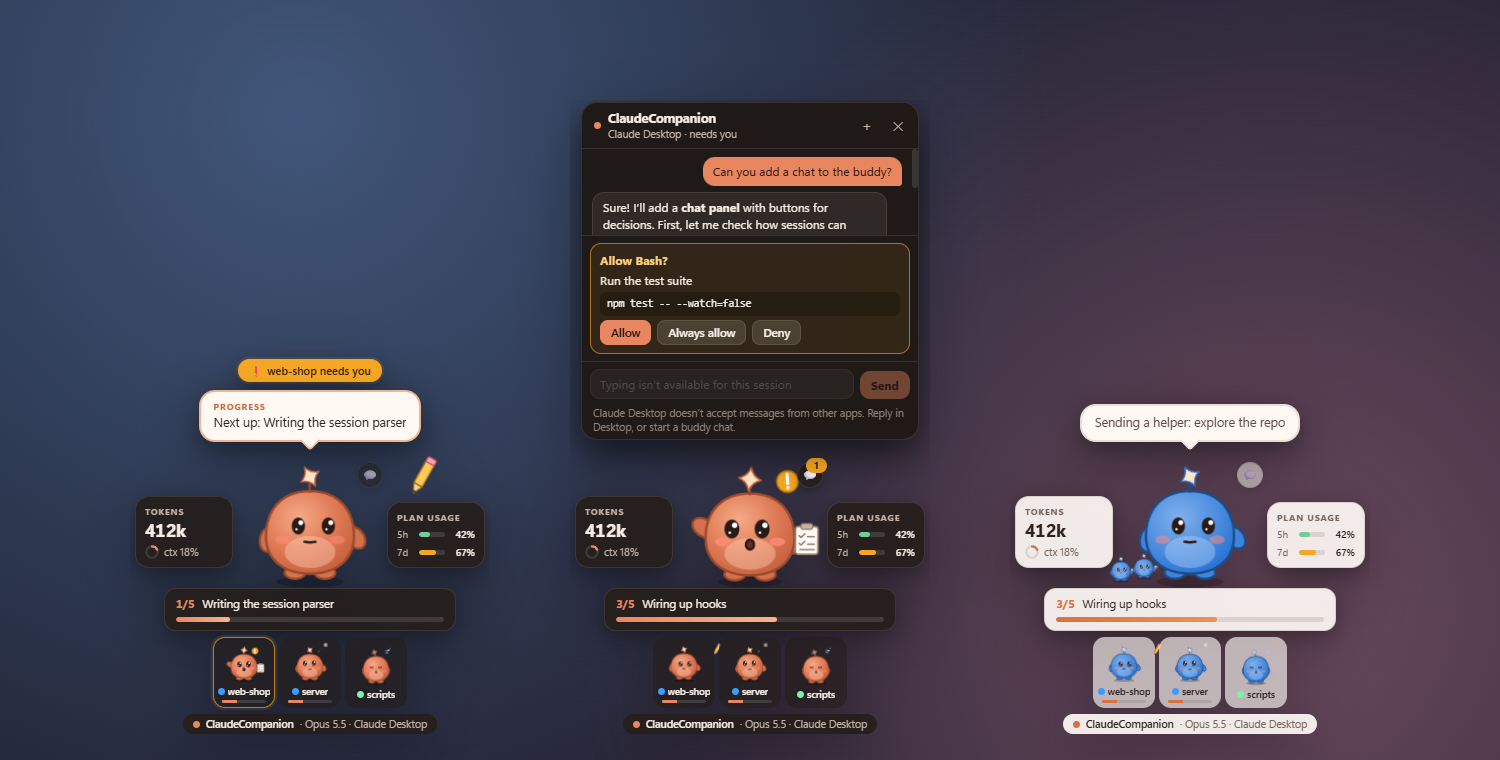
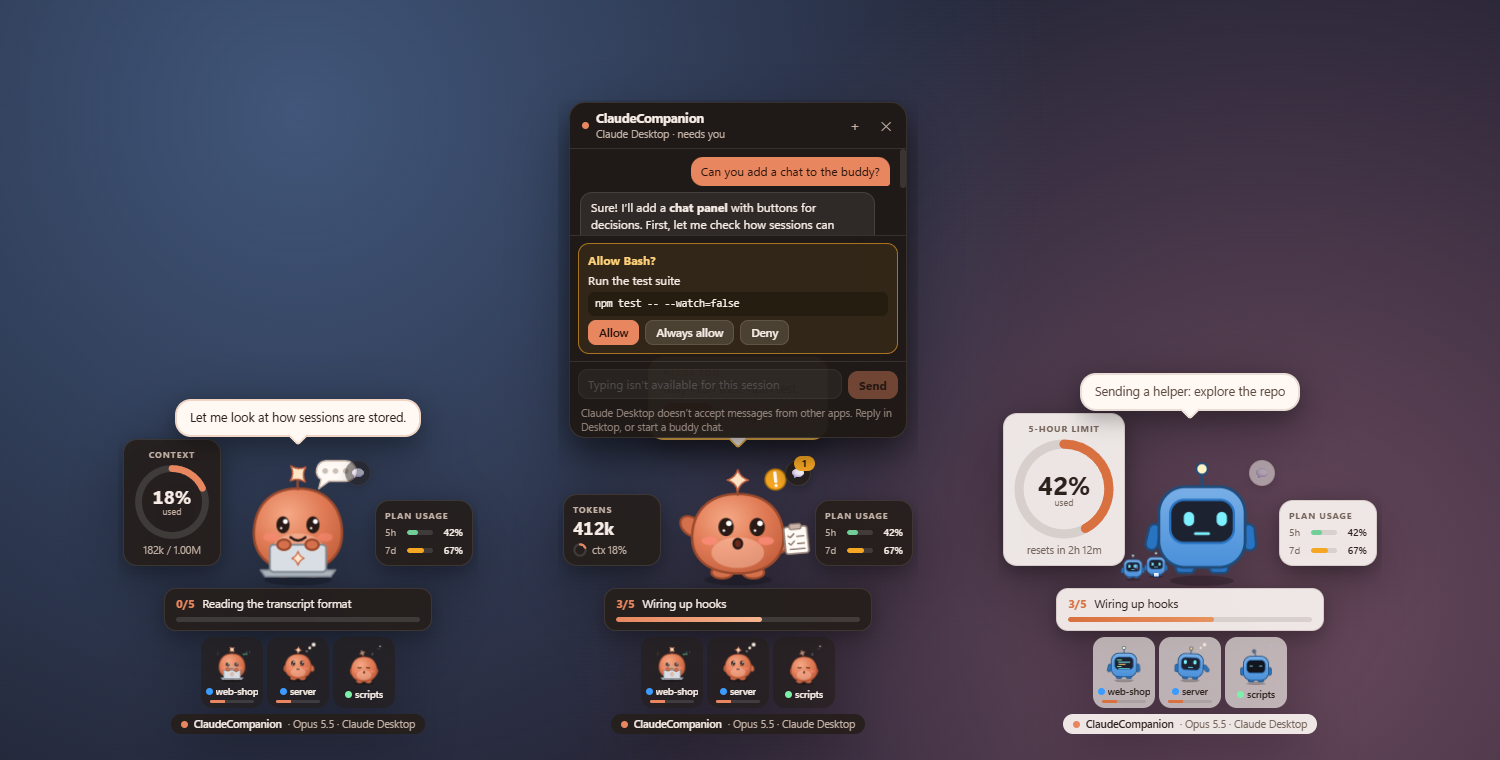
Update docs and screenshots for characters, activities and the token ring
- README: new hero image showing activities, the token ring and Blip;
  activities in the right-click menu; a pointer to Characters.
- Settings screenshot retaken (it still showed 0.1.0), and a new one of
  Settings → Look → Character in the character guide.
- CONTRIBUTING: the typing, coding and search demo scenes,
  --snapshot-bottom, npm run icon, how to rebuild the hero image, and
  activity.js, scripts/ and docs/ in the project layout.
- CHANGELOG: the size change now saving the position, presets leaving
  the arrangement alone, and --user-data.
- Character guide: which quirks come while idle and while thinking,
  and the smaller mini buddies beside the buddy.
- render-assets.js sizes hero snapshots by height, so a wider window
  (large ring beside the buddy) keeps the same scale.

diff --git a/scripts/render-assets.js b/scripts/render-assets.js
@@ -46,7 +46,7 @@ function heroHtml(images) {
   html,body{margin:0;width:1500px;height:760px;overflow:hidden}
   body{display:flex;align-items:flex-end;justify-content:center;gap:80px;padding-bottom:20px;box-sizing:border-box;
     background:radial-gradient(circle at 20% 15%,#41567a 0,transparent 55%),radial-gradient(circle at 85% 80%,#6b4a5e 0,transparent 50%),linear-gradient(135deg,#1f2a3c,#2b2233)}
-  img{width:360px;filter:drop-shadow(0 18px 30px rgba(0,0,0,.35))}
+  img{height:640px;filter:drop-shadow(0 18px 30px rgba(0,0,0,.35))}
   </style></head><body>${cells}</body></html>`;
 }
 

diff --git a/CONTRIBUTING.md b/CONTRIBUTING.md
@@ -21,15 +21,17 @@ You need Node.js 22 or later. Claude Code is optional, but you'll want it to see
 | `npm test` | Unit and integration tests (`node --test`). Run them before opening a pull request |
 | `npm run dev` | Logs hook events and a state summary every 5 seconds |
 | `npx electron . --demo` | Cycles through every mood with made-up data |
-| `npx electron . --demo=<scene>` | One scene: `idle`, `thinking`, `read`, `edit`, `run`, `web`, `agent`, `waiting`, `question`, `done`, `error`, `compacting`, `sleeping`, `chat`, `chatq` |
-| `--preset=<name>` / `--display=<json>` | Try a layout or look without saving it, for example `--display={"theme":"light"}` |
+| `npx electron . --demo=<scene>` | One scene: `idle`, `thinking`, `typing`, `coding`, `read`, `search`, `edit`, `run`, `web`, `agent`, `waiting`, `question`, `done`, `error`, `compacting`, `sleeping`, `chat`, `chatq` |
+| `--preset=<name>` / `--display=<json>` | Try a layout or look without saving it, for example `--display={"theme":"light"}` or `--display={"character":"blip","tokenStyle":"ring"}` (any key from `DISPLAY_DEFAULTS` in [display.js](src/main/display.js)) |
 | `--scale=<n>` | Override the size for this run |
 | `--settings[=<tab>]` | Open the Settings window at start |
-| `--snapshot=<file.png> [--snapshot-delay=ms] [--exit]` | Save a picture of the widget (or of Settings, with `--settings`) and quit. Handy for checking UI changes and for screenshots |
+| `--snapshot=<file.png> [--snapshot-delay=ms] [--snapshot-bottom] [--exit]` | Save a picture of the widget (or of Settings, with `--settings`; `--snapshot-bottom` scrolls it to the end first) and quit. Handy for checking UI changes and for screenshots |
 | `--screen=<n>` | Sent to a running instance: moves the buddy to screen n |
 | `--user-data=<dir>` | Use a separate settings and characters folder, e.g. to try things without touching your own (it also runs alongside your usual buddy) |
 
 `npm run pack` builds an unpacked app in `dist/`, and `npm run dist` builds installers for your platform.
+
+`npm run icon` redraws `assets/icon.png` from the built-in buddy. The README's hero image is put together from three widget snapshots: `npx electron scripts/render-assets.js hero a.png b.png c.png` (use `--user-data` for the snapshots, so they don't pick up your own settings).
 
 ## Project layout
 
@@ -52,11 +54,14 @@ src/characters/  built-in character packs: buddy (the default), blip, ghost
                    (see docs/characters.md)
 src/renderer/    the widget: plain scripts, no bundler
   character.js     draws a character pack in a shadow root, sanitising its SVG; colours
-  app.js           cards, bubbles, crew, popovers
+  activity.js      what the buddy acts out (typing, coding, reading…) and its quirks
+  app.js           cards, token ring, panel arrangement, bubbles, crew, popovers
   chat.js          chat panel
   demo.js          made-up data for demo mode
 src/settings/    Settings window
 bridge/          scripts Claude Code runs: status-line bridge, MCP channel server
+scripts/         render-assets.js: the app icon and the README hero image
+docs/            the character guide and screenshots
 test/            node:test suites
 ```
 

diff --git a/CHANGELOG.md b/CHANGELOG.md
@@ -8,11 +8,13 @@ All notable changes are listed here. This project follows [Semantic Versioning](
 - **Activities.** The buddy no longer spends most of a turn thinking. It acts out what Claude is most likely doing: typing on a laptop while Claude writes its reply, coding while it edits (and while it writes the next edit), reading a book, sweeping a magnifier, watching a terminal, browsing a page and ticking off a checklist. The last activity lingers for a moment after its tool, so quick tool calls no longer flicker. Now and then it looks around, stretches, scratches its head, hops or yawns while idle or thinking. Settings → Look → Activities turns each one off and sets how present they are (subtle, normal, lively); the right-click menu has the switch and the level too. Mini buddies and helpers act out their sessions as well.
 - Characters can draw activities and quirks with the new `do-*` and `quirk-*` classes, picture packs can add poses for them, and `gaze` takes a direction per activity. Characters that don't draw them show their working look. See the [character guide](docs/characters.md).
 - **Token ring.** The tokens card can be a big ring that fills up with the context window, the 5-hour or weekly plan limit, or your budget, in medium or large (Settings → Display → Tokens card, or right-click → Show).
-- **Arrangement.** Put each panel to the left, right, above or below the buddy, in the order you like: drag them on the map in Settings → Display → Arrangement, or use the arrow keys.
+- **Arrangement.** Put each panel to the left, right, above or below the buddy, in the order you like: drag them on the map in Settings → Display → Arrangement, or use the arrow keys. Layout presets leave your arrangement and ring as they are.
 - **Agents.** Show up to 8 mini buddies (they shrink to two a row beside the buddy) and up to 6 helpers, at the buddy's left or right foot.
 - **Colours and transparency.** Pick a card colour and an accent colour (or match the buddy), make cards as transparent as 10%, and let the whole buddy fade back while Claude is idle (Settings → Look).
 - The buddy's pencil now stays in its hand while editing, instead of floating over the credits card.
+- Changing the buddy's size now saves its position, so it no longer shifts on the next start.
 - The widget and Settings windows can no longer navigate to another page or open new windows.
+- For development: `--user-data=<dir>` runs with a separate settings and characters folder, alongside your usual buddy, and the demo has `typing`, `coding` and `search` scenes.
 
 ## 0.1.1
 

diff --git a/docs/characters.md b/docs/characters.md
@@ -21,6 +21,8 @@ Three characters come built in: **Buddy** (the default), **Blip**, a small robot
 4. Use **Preview** (same section) to show any mood on the buddy while you work, or **All moods in turn** to watch them all.
 5. If something's wrong, the error appears right under the character list, with the file, line and column.
 
+<img src="screenshots/characters.png" alt="Settings → Look → Character, listing Buddy, Blip and Ghost, with the Make an editable copy, Add from folder and Open characters folder buttons and the Preview menu" width="420">
+
 ## Where characters live
 
 Each character is a folder in your characters folder. **Open characters folder** in Settings takes you there.
@@ -113,11 +115,11 @@ Tool calls are quick, and most of a turn is Claude writing. So instead of thinki
 | `browsing` | On the web | `web` |
 | `planning` | Updating its task list | `plan` |
 
-**Quirks**: little things the buddy does on its own for a couple of seconds, now and then, while idle or thinking for a while: `look` (looks around), `stretch`, `scratch` (scratches its head), `hop` and `yawn`.
+**Quirks**: little things the buddy does on its own for a couple of seconds, now and then, while idle or thinking for a while: `look` (looks around), `stretch`, `scratch` (scratches its head), `hop` and `yawn`. While idle it picks from `look`, `stretch`, `hop` and `yawn`; while thinking, from `look`, `scratch` and `stretch`.
 
 People can turn each activity and the quirks off, or make them more or less frequent, so don't put anything only there that the moods need.
 
-The same character is also used for the **mini buddies** (your other sessions, 44 px) and the **helpers** at the buddy's feet (subagents, 32 px). The main buddy is 150 px at Normal size. Keep the art readable when it's small.
+The same character is also used for the **mini buddies** (your other sessions, 44 px, or 34 px when they sit beside the buddy) and the **helpers** at the buddy's feet (subagents, 32 px). The main buddy is 150 px at Normal size. Keep the art readable when it's small.
 
 ## Pictures
 

diff --git a/README.md b/README.md
@@ -4,7 +4,7 @@ A little desktop buddy that keeps an eye on [Claude Code](https://code.claude.co
 
 > **Unofficial community project.** Claude Companion is not made, endorsed or supported by Anthropic. "Claude" and "Claude Code" are trademarks of Anthropic, PBC.
 
-![Claude Companion at work, with the chat panel open and in a light theme](docs/screenshots/hero.png)
+![Three buddies: one typing on a laptop beside a context ring, one with the chat panel open on a permission prompt, and Blip the robot in a light theme with a big plan-limit ring and two helpers](docs/screenshots/hero.png)
 
 ## Features
 
@@ -47,7 +47,8 @@ npm start
 1. **Start the app.** The buddy appears in the bottom-right corner, with an icon in the system tray. With no setup at all, it already follows your sessions by reading Claude Code's transcripts.
 2. **Click ⚡ connect** in the buddy's footer, or go to Settings → Connect. This adds hooks to `~/.claude/settings.json`; it asks first and saves a backup. With hooks, the buddy reacts the moment Claude needs a decision and can answer prompts for you. Restart running Claude sessions afterwards.
 3. **Optional:** turn on **Plan usage** in Settings → Connect to see your claude.ai limits (terminal sessions; needs Node.js on PATH).
-4. **Right-click the buddy** for layout presets, what to show, sessions to follow, size, screen and chat.
+4. **Right-click the buddy** for layout presets, what to show, activities, sessions to follow, size, screen and chat.
+5. **Optional:** pick another character, or make your own, in Settings → Look → Character (see [Characters](#characters)).
 
 ## Chat and decisions
 
